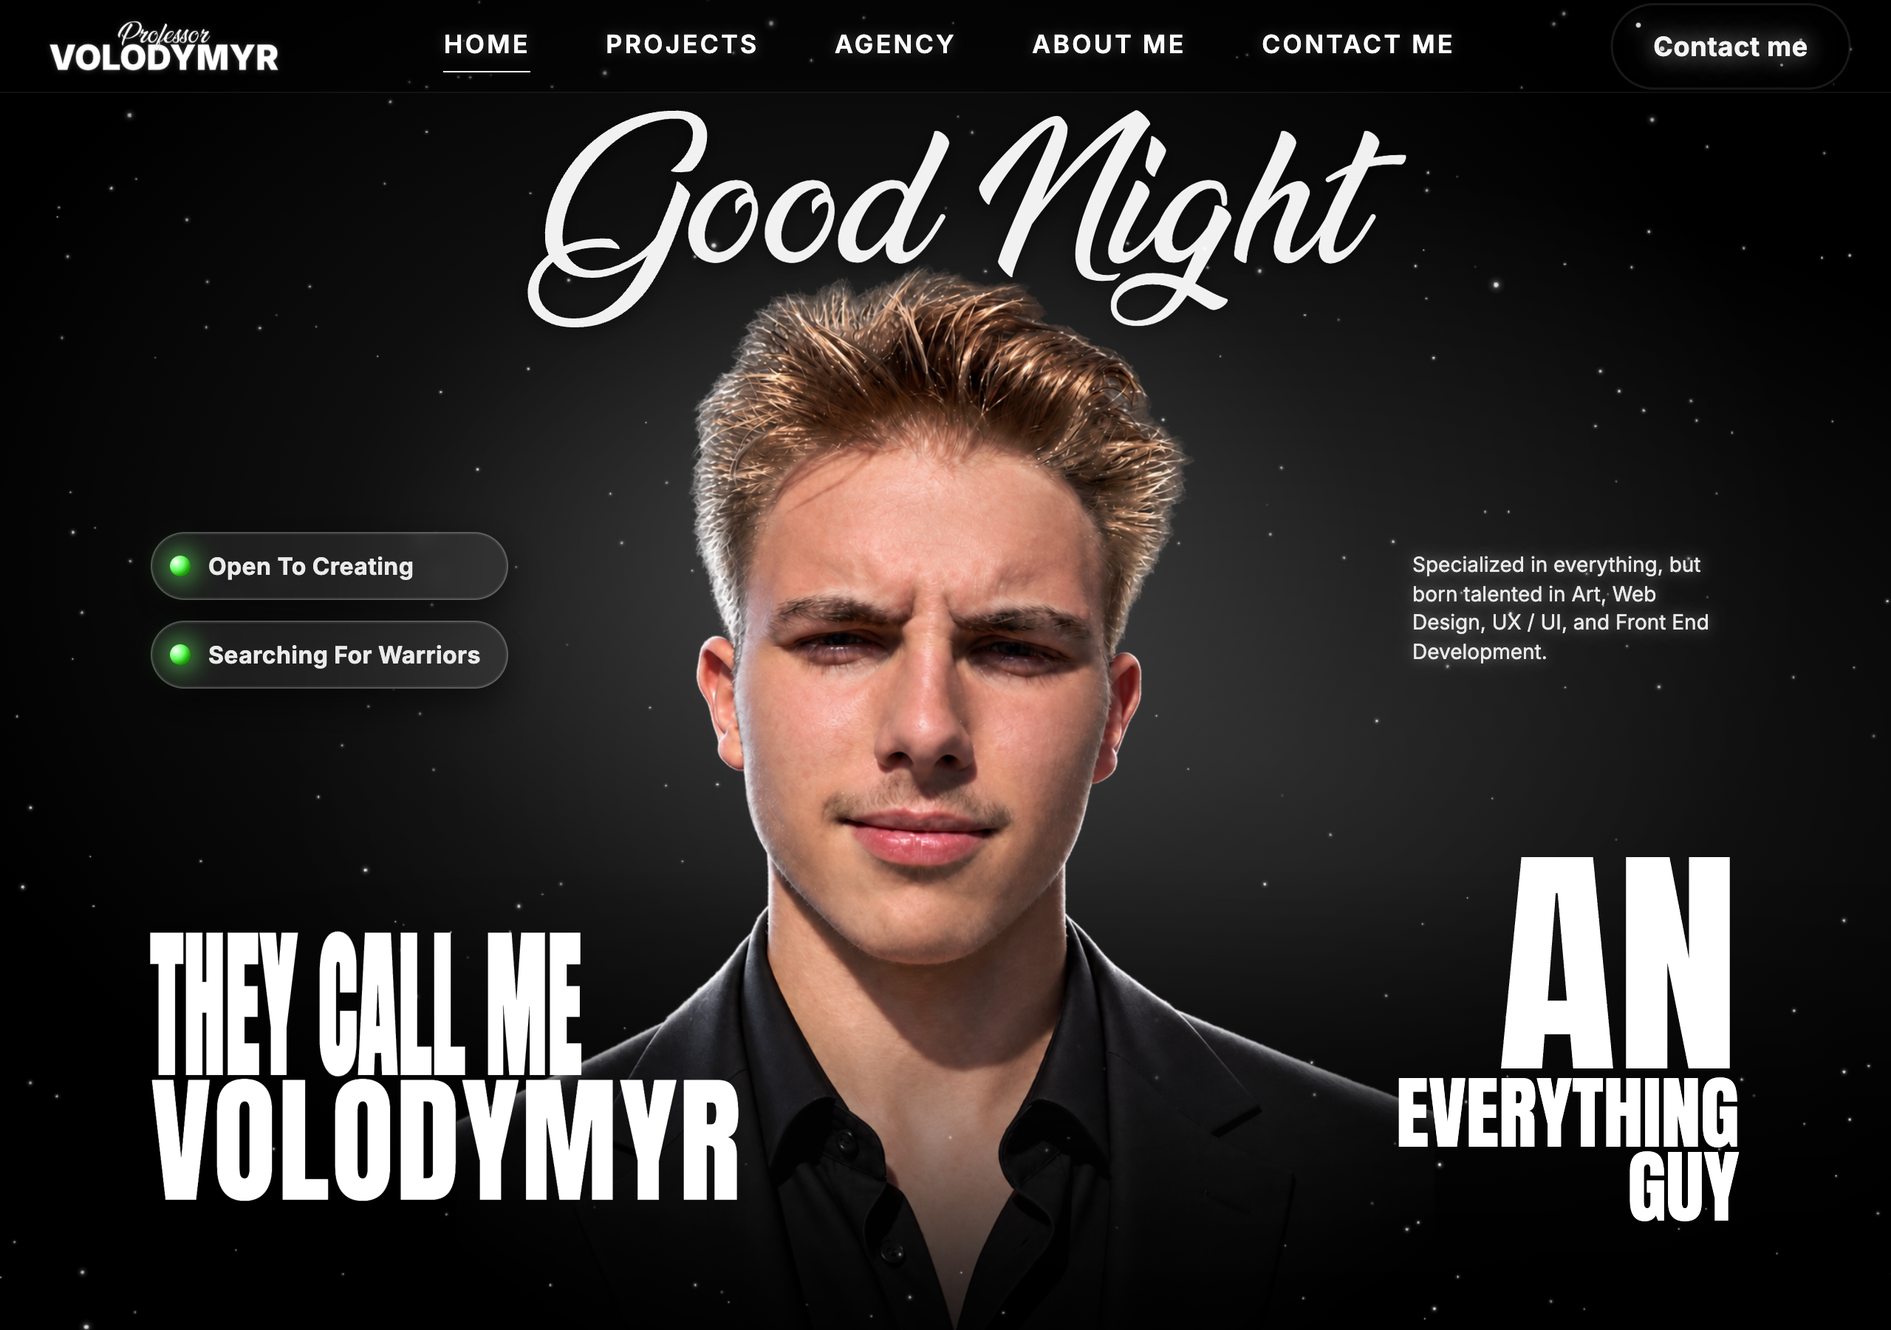
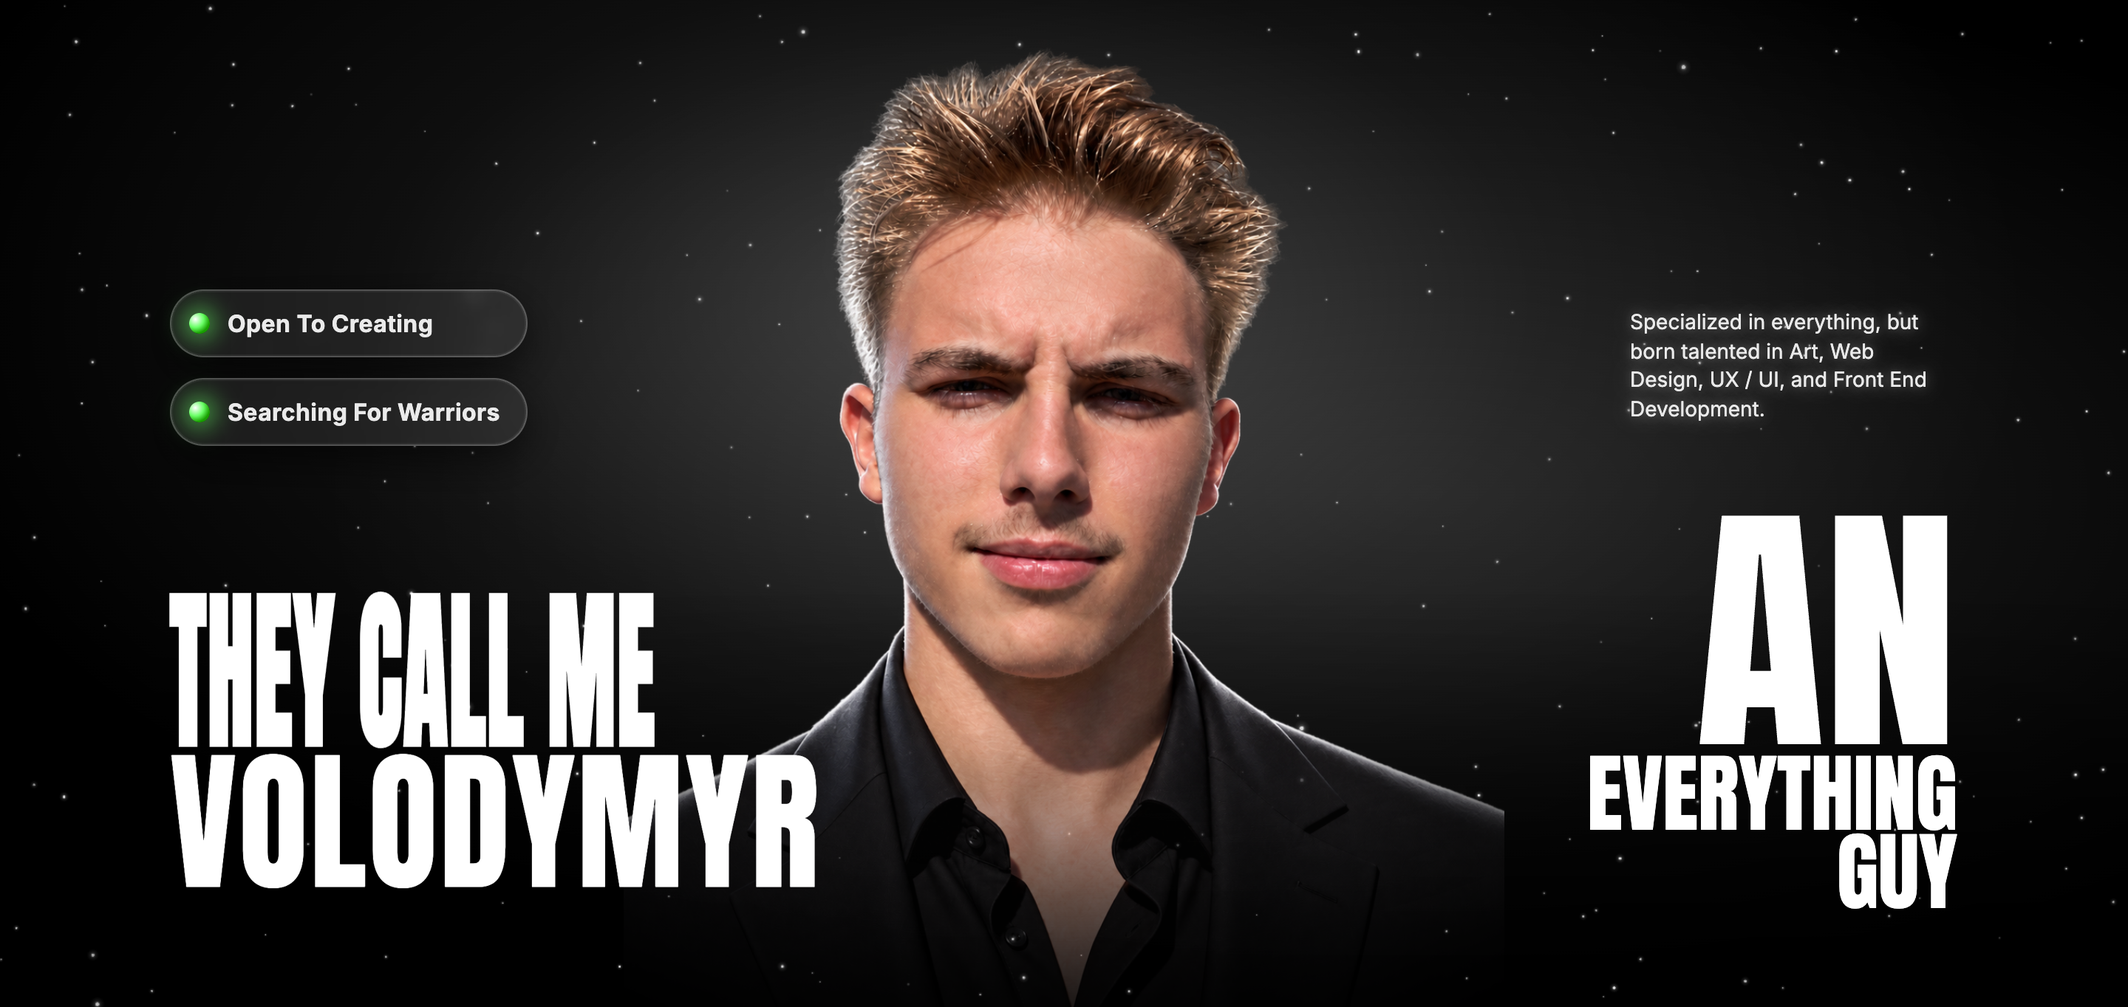
Build my website-styled developer profile README

diff --git a/design/profile.css b/design/profile.css
@@ -1,0 +1,152 @@
+@font-face {
+  font-family: Anton;
+  src: url(https://fonts.gstatic.com/s/anton/v27/1Ptgg87LROyAm3Kz-C8CSKlv.woff2) format('woff2');
+  font-weight: 400;
+  font-display: block;
+}
+@font-face {
+  font-family: Inter;
+  src: url(https://fonts.gstatic.com/s/inter/v20/UcC73FwrK3iLTeHuS_nVMrMxCp50SjIa1ZL7W0Q5nw.woff2) format('woff2');
+  font-weight: 100 900;
+  font-display: block;
+}
+@font-face {
+  font-family: Ananda;
+  src: url(https://fonts.cdnfonts.com/s/43086/Ananda-eL1n.woff) format('woff');
+  font-weight: 400;
+  font-display: block;
+}
+:root {
+  color-scheme: dark;
+  --white: #f5f5f5;
+  --muted: #b8b8b8;
+  --space: clamp(30px, 5vw, 72px);
+}
+* { box-sizing: border-box; }
+body { margin: 0; background: #161616; color: var(--white); font-family: Inter, sans-serif; }
+main { display: grid; gap: 32px; padding: 32px; justify-items: center; }
+section { position: relative; width: min(1280px, 100%); overflow: hidden; background: #000; }
+h1, h2, h3, p { margin: 0; }
+img { display: block; max-width: 100%; }
+.stars {
+  position: absolute;
+  inset: 0;
+  pointer-events: none;
+  background-image:
+    radial-gradient(circle at 11% 22%, #ffffff8c .8px, transparent 1.7px),
+    radial-gradient(circle at 78% 14%, #ffffff6e 1px, transparent 1.8px),
+    radial-gradient(circle at 88% 83%, #ffffff66 .8px, transparent 1.8px),
+    radial-gradient(circle at 37% 79%, #ffffff5a .7px, transparent 1.6px),
+    radial-gradient(circle at 95% 41%, #ffffff7a .7px, transparent 1.5px),
+    radial-gradient(circle at 9% 90%, #ffffff38 .6px, transparent 1.3px),
+    radial-gradient(circle at 54% 45%, #ffffff38 .5px, transparent 1.3px);
+  background-size: 291px 223px, 389px 271px, 419px 311px, 337px 367px, 487px 233px, 173px 283px, 271px 197px;
+  opacity: .7;
+}
+.purpose {
+  padding: var(--space);
+  min-height: 560px;
+  display: grid;
+  grid-template-columns: 1.4fr 1fr;
+  align-items: center;
+}
+.purpose::after, .about::after {
+  content: '';
+  position: absolute;
+  inset: auto 8% 0;
+  height: 1px;
+  background: linear-gradient(90deg, transparent, #ffffff52, transparent);
+}
+.purpose-copy { position: relative; z-index: 1; }
+.purpose h1 {
+  display: flex;
+  align-items: baseline;
+  gap: 22px;
+  font-family: Anton, sans-serif;
+  font-weight: 400;
+  font-size: 96px;
+  line-height: 1.4;
+  letter-spacing: .5px;
+}
+.purpose h1 span { font-family: Ananda, cursive; font-weight: 400; font-size: 111px; letter-spacing: 0; }
+.purpose .statement { margin-top: 12px; max-width: 690px; font-size: 44px; font-weight: 800; line-height: 1.16; letter-spacing: -1.3px; }
+.purpose .explanation { margin-top: 26px; max-width: 660px; font-size: 26px; line-height: 1.55; color: var(--muted); }
+.purpose-art { position: relative; z-index: 1; width: 100%; transform: rotate(-7deg); }
+.purpose-art img { width: 100%; object-fit: contain; }
+.about { min-height: 720px; padding: 54px var(--space) 60px; }
+.about h2 { position: relative; font-family: Ananda, cursive; font-size: 90px; font-weight: 400; line-height: 1.55; text-align: center; }
+.about-content { position: relative; display: grid; grid-template-columns: .87fr 1.13fr; gap: 48px; align-items: center; }
+.device-art { align-self: center; display: grid; place-items: center; }
+.device-art img { width: 100%; transform: scale(1.15); }
+.philosophy { display: grid; gap: 27px; }
+.project h3 { font-size: 34px; font-weight: 800; letter-spacing: -.8px; margin-bottom: 9px; }
+.project p { font-size: 26px; line-height: 1.52; color: var(--muted); max-width: 620px; }
+.project strong { font-weight: 500; color: #fff; }
+.button-art { width: min(960px, 100%); display: grid; gap: 24px; background: transparent; }
+.image-button {
+  isolation: isolate;
+  position: relative;
+  display: flex;
+  align-items: center;
+  gap: 26px;
+  padding: 28px 46px;
+  color: var(--white);
+  text-decoration: none;
+  background: #000;
+  border: 2px solid #373737;
+  border-radius: 999px;
+  min-height: 134px;
+  box-shadow: inset 0 1px 0 #ffffff19;
+  overflow: hidden;
+}
+.image-button::before {
+  content: '';
+  position: absolute;
+  inset: 0;
+  border-radius: inherit;
+  background: radial-gradient(ellipse at 38% -8%, #ffffff47, transparent 51%), radial-gradient(ellipse at 88% 110%, #ffffff13, transparent 37%);
+  z-index: -1;
+}
+.image-button::after {
+  content: '';
+  position: absolute;
+  inset: 0;
+  border-radius: inherit;
+  box-shadow: inset 0 2px 1px #ffffff4f, inset -2px -1px 1px #ffffff21;
+  pointer-events: none;
+}
+.image-button .icon { display: flex; align-items: center; flex-shrink: 0; }
+.image-button svg { height: 36px; width: 36px; fill: currentColor; stroke: none; }
+.button-copy { display: grid; gap: 8px; flex: 1; }
+.button-label { font-size: 34px; font-weight: 800; letter-spacing: -.7px; }
+.button-description { font-size: 22px; color: var(--muted); }
+.image-button .arrow { margin-left: auto; display: flex; align-items: center; }
+.image-button:focus-visible { outline: 3px solid #fff; outline-offset: 6px; }
+.image-button:hover { border-color: #aaa; }
+.desktop-art { width: 1280px; }
+.mobile-art { width: 640px; }
+.purpose.mobile-art { grid-template-columns: 1fr; padding: 48px; min-height: 850px; gap: 0; }
+.purpose.mobile-art h1 { font-size: 74px; gap: 18px; line-height: 1.5; }
+.purpose.mobile-art h1 span { font-size: 90px; }
+.purpose.mobile-art .statement { font-size: 46px; line-height: 1.22; margin-top: 18px; }
+.purpose.mobile-art .explanation { font-size: 32px; line-height: 1.48; margin-top: 26px; }
+.purpose.mobile-art .purpose-art { width: 300px; justify-self: center; margin-top: 30px; }
+.about.mobile-art { padding: 36px 48px 55px; min-height: 1190px; }
+.about.mobile-art h2 { font-size: 90px; text-align: left; line-height: 1.7; }
+.about.mobile-art .about-content { grid-template-columns: 1fr; gap: 8px; }
+.about.mobile-art .device-art { width: 260px; justify-self: start; margin: -18px 0 -10px; }
+.about.mobile-art .device-art img { transform: scale(1.4); }
+.about.mobile-art .philosophy { gap: 32px; }
+.about.mobile-art .project h3 { font-size: 39px; margin-bottom: 12px; }
+.about.mobile-art .project p { font-size: 32px; line-height: 1.48; }
+.button-mobile { width: 640px; }
+.button-mobile .image-button { padding: 28px 34px; gap: 20px; min-height: 145px; }
+.button-mobile .button-label { font-size: 34px; }
+.button-mobile .button-description { font-size: 32px; line-height: 1.3; }
+.button-mobile .image-button svg { width: 34px; height: 34px; }
+.rendering main { display: block; padding: 0; }
+.rendering section { display: none; }
+.rendering section.selected { display: grid; }
+.rendering .button-art.selected { gap: 0; }
+.rendering .button-art.selected > a { display: none; }
+.rendering .button-art.selected > a.selected { display: flex; }

diff --git a/design/profile.html b/design/profile.html
@@ -1,0 +1,62 @@
+<!doctype html>
+<html lang="en">
+<head>
+<meta charset="utf-8">
+<meta name="viewport" content="width=device-width, initial-scale=1">
+<title>Professor Volodymyr | Profile artwork</title>
+<link rel="stylesheet" href="./profile.css">
+</head>
+<body>
+<main>
+<section class="purpose desktop-art" id="purpose-desktop" aria-label="My purpose">
+<div class="stars"></div>
+<div class="purpose-copy"><h1>MY <span>Purpose</span></h1><p class="statement">Build software that is<br>real, connected, and open.</p><p class="explanation">Make time well spent. Connect what is scattered.<br>Keep next-generation software open source.</p></div>
+<div class="purpose-art"><img src="../assets/chrome-purpose.png" alt="A polished silver compass"></div>
+</section>
+<section class="purpose mobile-art" id="purpose-mobile" aria-label="My purpose">
+<div class="stars"></div>
+<div class="purpose-copy"><h1>MY <span>Purpose</span></h1><p class="statement">Build software that is real, connected, and open.</p><p class="explanation">Make time well spent. Connect what is scattered. Keep next-generation software open source.</p></div>
+<div class="purpose-art"><img src="../assets/chrome-purpose.png" alt="A polished silver compass"></div>
+</section>
+<section class="about desktop-art" id="about-desktop" aria-label="About Me">
+<div class="stars"></div><h2>About Me</h2>
+<div class="about-content"><div class="device-art"><img src="../assets/chrome-devices.png" alt="A studio-chrome laptop and phone, built for web and app development"></div><div class="philosophy">
+<div class="project"><h3>Everthink</h3><p>Projects are scattered, missing features, connections, and opportunities. I build software that <strong>brings those pieces together.</strong></p></div>
+<div class="project"><h3>The Real</h3><p>Software where even the time you “waste” is time well spent. <strong>Enjoyable experiences and real-value crypto tokens,</strong> without getting glued to an ecosystem.</p></div>
+<div class="project"><h3>Open &amp; Next</h3><p>Open source is not always next-generation.<br>Next-generation is not always open source.<br><strong>I build at the intersection of both.</strong></p></div>
+</div></div>
+</section>
+<section class="about mobile-art" id="about-mobile" aria-label="About Me">
+<div class="stars"></div><h2>About Me</h2>
+<div class="about-content"><div class="device-art"><img src="../assets/chrome-devices.png" alt="A studio-chrome laptop and phone"></div><div class="philosophy">
+<div class="project"><h3>Everthink</h3><p>Projects are scattered, missing features, connections, and opportunities. I build software that <strong>brings those pieces together.</strong></p></div>
+<div class="project"><h3>The Real</h3><p>Software where even the time you “waste” is time well spent. <strong>Enjoyable experiences and real-value crypto tokens,</strong> without getting glued to an ecosystem.</p></div>
+<div class="project"><h3>Open &amp; Next</h3><p>Open source is not always next-generation. Next-generation is not always open source. <strong>I build at the intersection of both.</strong></p></div>
+</div></div>
+</section>
+<section class="button-art" id="buttons-desktop" aria-label="Explore the website"></section>
+<section class="button-art button-mobile" id="buttons-mobile" aria-label="Explore the website"></section>
+</main>
+<script src="./icons.js"></script>
+<script>
+const buttons = [
+{key:'contact',label:'Contact Me',description:'An idea, a question, a conversation.',url:'https://www.professorvolodymyr.com/contact'},
+{key:'work',label:'Work With Me',description:'Websites, apps, and design. My agency.',url:'https://www.professorvolodymyr.com/agency'},
+{key:'projects',label:'Projects',description:'Explore what I’m building.',url:'https://www.professorvolodymyr.com/projects'},
+{key:'community',label:'Join the Community',description:'Ask me about joining.',url:'https://www.professorvolodymyr.com/contact'},
+{key:'website',label:'Enter My Universe',description:'The full portfolio experience.',url:'https://www.professorvolodymyr.com/'}
+];
+for (const variant of ['desktop','mobile']) {
+const container = document.getElementById('buttons-'+variant);
+for (const button of buttons) {
+const anchor = document.createElement('a');
+anchor.className='image-button';anchor.id=button.key+'-'+variant;anchor.href=button.url;
+anchor.innerHTML='<span class="icon">'+icons[button.key]+'</span><span class="button-copy"><span class="button-label">'+button.label+'</span><span class="button-description">'+button.description+'</span></span><span class="arrow">'+icons.arrow+'</span>';
+container.append(anchor);
+}
+}
+const selection = new URL(location.href).searchParams.get('render');
+if(selection){document.body.classList.add('rendering');const element=document.getElementById(selection);if(element){element.classList.add('selected');if(element.closest('.button-art'))element.closest('.button-art').classList.add('selected')}}
+</script>
+</body>
+</html>

diff --git a/design/icons.js b/design/icons.js
@@ -1,0 +1,8 @@
+const icons = {
+  contact: '<svg xmlns="http://www.w3.org/2000/svg" viewBox="0 0 256 256" fill="currentColor" aria-hidden="true"><path d="M140,128a12,12,0,1,1-12-12A12,12,0,0,1,140,128ZM84,116a12,12,0,1,0,12,12A12,12,0,0,0,84,116Zm88,0a12,12,0,1,0,12,12A12,12,0,0,0,172,116Zm60,12A104,104,0,0,1,79.12,219.82L45.07,231.17a16,16,0,0,1-20.24-20.24l11.35-34.05A104,104,0,1,1,232,128Zm-16,0A88,88,0,1,0,51.81,172.06a8,8,0,0,1,.66,6.54L40,216,77.4,203.53a7.85,7.85,0,0,1,2.53-.42,8,8,0,0,1,4,1.08A88,88,0,0,0,216,128Z"/></svg>',
+  work: '<svg xmlns="http://www.w3.org/2000/svg" viewBox="0 0 256 256" fill="currentColor" aria-hidden="true"><path d="M216,56H176V48a24,24,0,0,0-24-24H104A24,24,0,0,0,80,48v8H40A16,16,0,0,0,24,72V200a16,16,0,0,0,16,16H216a16,16,0,0,0,16-16V72A16,16,0,0,0,216,56ZM96,48a8,8,0,0,1,8-8h48a8,8,0,0,1,8,8v8H96ZM216,72v41.61A184,184,0,0,1,128,136a184.07,184.07,0,0,1-88-22.38V72Zm0,128H40V131.64A200.19,200.19,0,0,0,128,152a200.25,200.25,0,0,0,88-20.37V200ZM104,112a8,8,0,0,1,8-8h32a8,8,0,0,1,0,16H112A8,8,0,0,1,104,112Z"/></svg>',
+  projects: '<svg xmlns="http://www.w3.org/2000/svg" viewBox="0 0 256 256" fill="currentColor" aria-hidden="true"><path d="M69.12,94.15,28.5,128l40.62,33.85a8,8,0,1,1-10.24,12.29l-48-40a8,8,0,0,1,0-12.29l48-40a8,8,0,0,1,10.24,12.3Zm176,27.7-48-40a8,8,0,1,0-10.24,12.3L227.5,128l-40.62,33.85a8,8,0,1,0,10.24,12.29l48-40a8,8,0,0,0,0-12.29ZM162.73,32.48a8,8,0,0,0-10.25,4.79l-64,176a8,8,0,0,0,4.79,10.26A8.14,8.14,0,0,0,96,224a8,8,0,0,0,7.52-5.27l64-176A8,8,0,0,0,162.73,32.48Z"/></svg>',
+  community: '<svg xmlns="http://www.w3.org/2000/svg" viewBox="0 0 256 256" fill="currentColor" aria-hidden="true"><path d="M244.8,150.4a8,8,0,0,1-11.2-1.6A51.6,51.6,0,0,0,192,128a8,8,0,0,1-7.37-4.89,8,8,0,0,1,0-6.22A8,8,0,0,1,192,112a24,24,0,1,0-23.24-30,8,8,0,1,1-15.5-4A40,40,0,1,1,219,117.51a67.94,67.94,0,0,1,27.43,21.68A8,8,0,0,1,244.8,150.4ZM190.92,212a8,8,0,1,1-13.84,8,57,57,0,0,0-98.16,0,8,8,0,1,1-13.84-8,72.06,72.06,0,0,1,33.74-29.92,48,48,0,1,1,58.36,0A72.06,72.06,0,0,1,190.92,212ZM128,176a32,32,0,1,0-32-32A32,32,0,0,0,128,176ZM72,120a8,8,0,0,0-8-8A24,24,0,1,1,87.24,82a8,8,0,1,0,15.5-4A40,40,0,1,0,37,117.51,67.94,67.94,0,0,0,9.6,139.19a8,8,0,1,0,12.8,9.61A51.6,51.6,0,0,1,64,128,8,8,0,0,0,72,120Z"/></svg>',
+  website: '<svg xmlns="http://www.w3.org/2000/svg" viewBox="0 0 256 256" fill="currentColor" aria-hidden="true"><path d="M128,24A104,104,0,1,0,232,128,104.11,104.11,0,0,0,128,24Zm88,104a87.62,87.62,0,0,1-6.4,32.94l-44.7-27.49a15.92,15.92,0,0,0-6.24-2.23l-22.82-3.08a16.11,16.11,0,0,0-16,7.86h-8.72l-3.8-7.86a15.91,15.91,0,0,0-11-8.67l-8-1.73L96.14,104h16.71a16.06,16.06,0,0,0,7.73-2l12.25-6.76a16.62,16.62,0,0,0,3-2.14l26.91-24.34A15.93,15.93,0,0,0,166,49.1l-.36-.65A88.11,88.11,0,0,1,216,128ZM143.31,41.34,152,56.9,125.09,81.24,112.85,88H96.14a16,16,0,0,0-13.88,8l-8.73,15.23L63.38,84.19,74.32,58.32a87.87,87.87,0,0,1,69-17ZM40,128a87.53,87.53,0,0,1,8.54-37.8l11.34,30.27a16,16,0,0,0,11.62,10l21.43,4.61L96.74,143a16.09,16.09,0,0,0,14.4,9h1.48l-7.23,16.23a16,16,0,0,0,2.86,17.37l.14.14L128,205.94l-1.94,10A88.11,88.11,0,0,1,40,128Zm102.58,86.78,1.13-5.81a16.09,16.09,0,0,0-4-13.9,1.85,1.85,0,0,1-.14-.14L120,174.74,133.7,144l22.82,3.08,45.72,28.12A88.18,88.18,0,0,1,142.58,214.78Z"/></svg>',
+  arrow: '<svg xmlns="http://www.w3.org/2000/svg" viewBox="0 0 256 256" fill="currentColor" aria-hidden="true"><path d="M200,64V168a8,8,0,0,1-16,0V83.31L69.66,197.66a8,8,0,0,1-11.32-11.32L172.69,72H88a8,8,0,0,1,0-16H192A8,8,0,0,1,200,64Z"/></svg>'
+};

diff --git a/README.md b/README.md
@@ -1,0 +1,69 @@
+<a href="https://www.professorvolodymyr.com/">
+  <img src="https://raw.githubusercontent.com/prophesourvolodymyr/prophesourvolodymyr/main/assets/hero.png" alt="Professor Volodymyr. An everything guy. Open to creating and searching for warriors. Art, web design, UX/UI, and front-end development." width="100%">
+</a>
+
+<picture>
+  <source media="(max-width: 600px)" srcset="https://raw.githubusercontent.com/prophesourvolodymyr/prophesourvolodymyr/main/assets/purpose-mobile.png">
+  <img src="https://raw.githubusercontent.com/prophesourvolodymyr/prophesourvolodymyr/main/assets/purpose.png" alt="My purpose: build software that is real, connected, and open. Make time well spent, connect what is scattered, and keep next-generation software open source." width="100%">
+</picture>
+
+## Shortly, I specialize in the following
+
+I build across the stack, from systems and developer tools to the web and native Apple apps.
+
+| Area | Languages | What I build |
+| :--- | :--- | :--- |
+| **Deep development** | Rust · C · C++ · Go | Systems, editors, CLIs, and developer tools |
+| **Web development** | TypeScript · JavaScript · HTML · CSS | Websites, web apps, SDKs, and interactive interfaces |
+| **App development** | Swift · Objective-C · Metal | iOS and macOS apps, native UI, and graphics |
+| **Automation** | Python · Shell | Scripts, workflows, and tools that remove busywork |
+
+**On the interface side:** React · Next.js · SwiftUI · Three.js / WebGL · UX/UI design.
+
+**Occasionally\***, Section Four also lists **Wars Fought**, **Dragons Slayed**, **Revolutions Plotted**, **Ideas Daddy**, and **AI / ML World Takeover**. [The full list lives here.](https://www.professorvolodymyr.com/#specializations)
+
+<a href="https://www.professorvolodymyr.com/about-me">
+  <picture>
+    <source media="(max-width: 600px)" srcset="https://raw.githubusercontent.com/prophesourvolodymyr/prophesourvolodymyr/main/assets/about-mobile.png">
+    <img src="https://raw.githubusercontent.com/prophesourvolodymyr/prophesourvolodymyr/main/assets/about.png" alt="About Me. Three kinds of projects: Everthink brings together scattered features, connections, and opportunities. The Real is software where time is well spent, with enjoyable experiences and crypto tokens with real monetary value, without getting glued to an ecosystem. Open &amp; Next bridges open-source and next-generation software. A studio-chrome laptop and phone sit to the left of the project descriptions." width="100%">
+  </picture>
+</a>
+
+## Find your way
+
+<a href="https://www.professorvolodymyr.com/contact">
+  <picture>
+    <source media="(max-width: 600px)" srcset="https://raw.githubusercontent.com/prophesourvolodymyr/prophesourvolodymyr/main/assets/buttons/contact-mobile.png">
+    <img src="https://raw.githubusercontent.com/prophesourvolodymyr/prophesourvolodymyr/main/assets/buttons/contact.png" alt="Contact Me: an idea, a question, a conversation." width="100%">
+  </picture>
+</a>
+
+<a href="https://www.professorvolodymyr.com/agency">
+  <picture>
+    <source media="(max-width: 600px)" srcset="https://raw.githubusercontent.com/prophesourvolodymyr/prophesourvolodymyr/main/assets/buttons/work-mobile.png">
+    <img src="https://raw.githubusercontent.com/prophesourvolodymyr/prophesourvolodymyr/main/assets/buttons/work.png" alt="Work With Me: websites, apps, and design. Visit my agency." width="100%">
+  </picture>
+</a>
+
+<a href="https://www.professorvolodymyr.com/projects">
+  <picture>
+    <source media="(max-width: 600px)" srcset="https://raw.githubusercontent.com/prophesourvolodymyr/prophesourvolodymyr/main/assets/buttons/projects-mobile.png">
+    <img src="https://raw.githubusercontent.com/prophesourvolodymyr/prophesourvolodymyr/main/assets/buttons/projects.png" alt="Projects: explore what I’m building." width="100%">
+  </picture>
+</a>
+
+<a href="https://www.professorvolodymyr.com/contact">
+  <picture>
+    <source media="(max-width: 600px)" srcset="https://raw.githubusercontent.com/prophesourvolodymyr/prophesourvolodymyr/main/assets/buttons/community-mobile.png">
+    <img src="https://raw.githubusercontent.com/prophesourvolodymyr/prophesourvolodymyr/main/assets/buttons/community.png" alt="Join the Community: ask me about joining through the website’s contact page." width="100%">
+  </picture>
+</a>
+
+<a href="https://www.professorvolodymyr.com/">
+  <picture>
+    <source media="(max-width: 600px)" srcset="https://raw.githubusercontent.com/prophesourvolodymyr/prophesourvolodymyr/main/assets/buttons/website-mobile.png">
+    <img src="https://raw.githubusercontent.com/prophesourvolodymyr/prophesourvolodymyr/main/assets/buttons/website.png" alt="Enter My Universe: the full portfolio experience." width="100%">
+  </picture>
+</a>
+
+<sub>Community membership is currently by enquiry. The Projects page is under construction; public code is available in the repositories on this profile.</sub>
